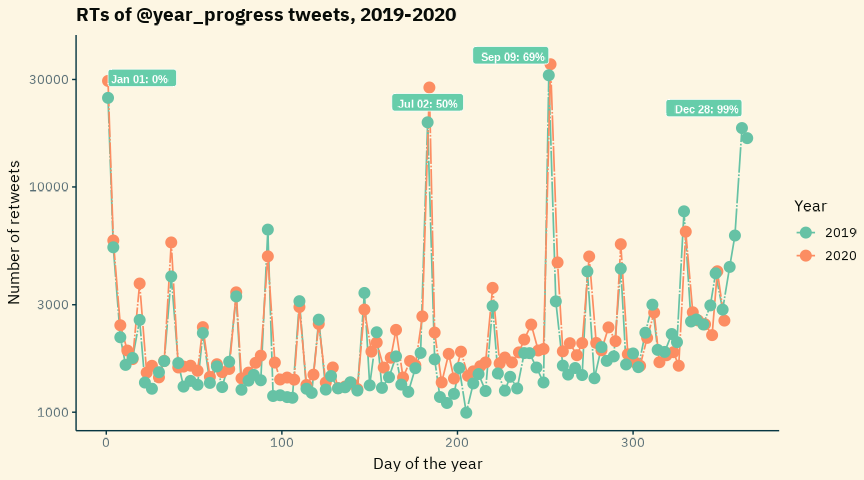
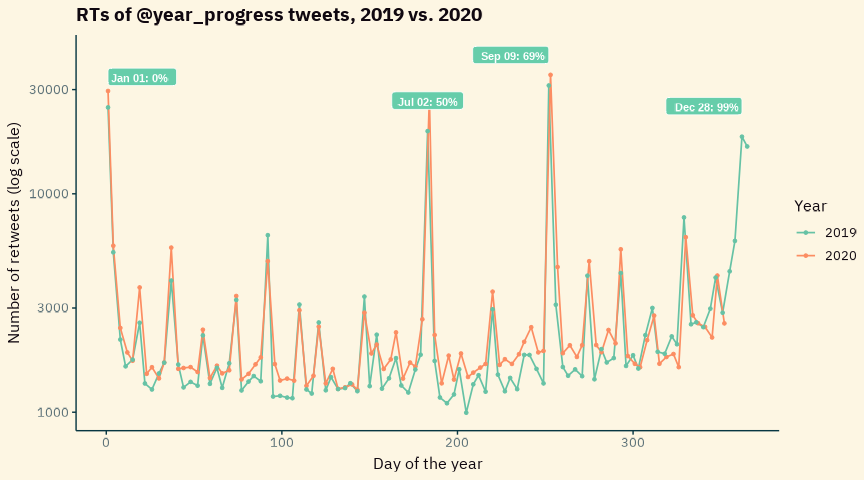
Add likes and quotes analysis

diff --git a/style.css b/style.css
@@ -1,0 +1,34 @@
+body {
+  font-family: "IBM Plex Sans", "Noto Sans", "Cabin", "Calibri", "Arial", sans-serif;
+  color: #080c08;
+}
+
+#flow > * + * {
+  margin-top: 1.5rem;
+}
+
+h1 {
+  border-bottom: 4px solid #66CDAA;
+}
+
+p, li {
+  font-size: 20px;
+}
+
+a, a:active, a:hover {
+  text-decoration: solid 2px underline currentcolor;
+}
+
+code, .sourceCode {
+  font-family: "IBM Plex Mono", "Hasklig", "Inconsolata", "Liberation Mono", "Consolas", monospace;
+  border: 1px dotted #CDC1C5;
+}
+
+.sourceCode > .sourceCode {
+  border: 0
+}
+
+img {
+  border: 2px solid #080c08;
+  margin: 2rem 0;
+}

diff --git a/README.md b/README.md
@@ -1,6 +1,6 @@
 Looking at tweets by @year\_progress 2019-2020
 ================
-December 19, 2020
+December 20, 2020
 
 <!-- README.md is generated from README.Rmd. Please edit that file -->
 <!-- badges: start -->
@@ -104,21 +104,17 @@ visualising.
 ``` r
 dtf2 <- dtf %>% 
   # filter out any "normal" tweets!
-  # filter(!stringr::str_detect(text, "^([:alnum:]|[:punct:])+")) %>% 
   filter(stringr::str_detect(text, "^(\u2591|\u2593)+")) %>% 
   mutate(pcnt = as.numeric(stringr::str_extract(text, "[0-9]+"))) %>% 
   mutate(date_tweeted = case_when(
     # 100% tweets get tweeted just _after_ midnight on 1st Jan: need correcting
-    # be better here to *check* if date == January 1 but OK for now
+    # Be better here to check *if* date == January 1 but OK for now
     pcnt == 100 ~ lubridate::as_date(created_at) - lubridate::period(1, "days"),
     TRUE ~ lubridate::as_date(created_at)
   )) %>% 
   mutate(year = lubridate::year(date_tweeted)) %>% 
   mutate(yday = lubridate::yday(date_tweeted)) %>% 
   mutate(wkdy = weekdays(lubridate::as_date(date_tweeted))) %>% 
-  # NB 2018 is hard-coded here, needs changing if working with different years
-  # filter(!year == 2018) %>% 
-  # select(!c(id, text, created_at)) %>% 
   mutate(across(c(year, wkdy), ~ as.factor(.)))
 ```
 
@@ -131,27 +127,135 @@ dtf2 %>%
   mutate(label = glue::glue("{format(date_tweeted, '%b %d')}: {pcnt}%")) %>% 
   left_join(dtf2, .) %>% 
   ggplot(aes(yday, retweet_count)) +
-  geom_line(aes(colour = year), size = 0.6, alpha = 1, linetype = "f111") +
-  geom_point(aes(fill = year), stroke = NA, shape = 21, size = 1) +
+  geom_line(aes(colour = year), size = 0.6, alpha = 1,) +
+  geom_point(aes(colour = year), size = 1) +
   geom_label(
     aes(label = label),
     vjust = "outward",
     hjust = "inward",
-    nudge_y = 0.05,
+    nudge_y = 0.1,
     fill = "aquamarine3",
     colour = "white",
     size = 3,
     fontface = "bold") +
-  scale_fill_brewer("Year", palette = "Set2") +
   scale_colour_brewer("Year", palette = "Set2") +
   scale_y_log10() +
   labs(
     x = "Day of the year",
-    y = "Number of retweets",
-    title = "RTs of @year_progress tweets, 2019-2020"
+    y = "Number of retweets (log scale)",
+    title = "RTs of @year_progress tweets, 2019 vs. 2020"
   )
 ```
 
 <img src="man/figures/README-plot-retweets-1.png" width="100%" />
+
+Certain tweets are vastly more popular than the rest, with four tweets
+standing out as peaks - even when a log scale is employed on the y axis.
+The next tranche of popularity is reserved for the multiples of 10%,
+apart from 50% which is already one of the top four retweeted.
+
+There doesn’t seem to be a particularly different trend affecting the
+popularity of tweets or the pattern of retweets as 2020 has progressed,
+relative to 2019. 2020 numbers are generally a little higher, which is
+most likely due to the account having acquired more followers over time.
+
+Let’s see if the numbers of likes for each tweet show a similar pattern
+(we’d generally expect them to):
+
+``` r
+dtf3 <- dtf2 %>% 
+  filter(year == 2019) %>% 
+  slice_max(n = 4, order_by = like_count) %>% 
+  mutate(label_2019 = glue::glue(
+    "{format(date_tweeted, '%b %d')}: {pcnt}%")) %>% 
+  left_join(dtf2, .)
+dtf3 %>% 
+  filter(year == 2020) %>% 
+  slice_max(n = 4, order_by = like_count) %>% 
+  mutate(label_2020 = glue::glue(
+    "{format(date_tweeted, '%b %d')}: {pcnt}%")) %>% 
+  left_join(dtf3, .) %>% 
+  mutate(like_count = like_count/1000) %>% 
+  ggplot(aes(yday, like_count)) +
+  geom_line(aes(colour = year), size = 0.6, alpha = 1) +
+  geom_point(aes(colour = year), size = 1) +
+  geom_label(
+    aes(label = label_2019),
+    vjust = "outward",
+    hjust = "inward",
+    nudge_y = 0.1,
+    fill = "chocolate2",
+    # fill = "sienna1",
+    colour = "white",
+    size = 3,
+    fontface = "bold") +
+  geom_label(
+    aes(label = label_2020),
+    vjust = "outward",
+    hjust = "inward",
+    nudge_y = 0.1,
+    fill = "aquamarine3",
+    colour = "white",
+    size = 3,
+    fontface = "bold") +
+  scale_colour_brewer("Year", palette = "Set2", direction = -1) +
+  scale_y_log10() +
+  labs(
+    x = "Day of the year",
+    y = "Number of likes ('000s) (log scale)",
+    title = "\"Likes\" of @year_progress tweets, 2019 vs. 2020"
+  )
+```
+
+<img src="man/figures/README-plot-likes-1.png" width="100%" />
+
+And quote tweets:
+
+``` r
+dtf3 <- dtf2 %>% 
+  filter(year == 2019) %>% 
+  slice_max(n = 4, order_by = quote_count) %>% 
+  mutate(label_2019 = glue::glue(
+    "{format(date_tweeted, '%b %d')}: {pcnt}%")) %>% 
+  left_join(dtf2, .)
+dtf3 %>% 
+  filter(year == 2020) %>% 
+  slice_max(n = 4, order_by = quote_count) %>% 
+  mutate(label_2020 = glue::glue(
+    "{format(date_tweeted, '%b %d')}: {pcnt}%")) %>% 
+  left_join(dtf3, .) %>% 
+  # mutate(quote_count = quote_count/1000) %>% 
+  ggplot(aes(yday, quote_count)) +
+  geom_line(aes(colour = year), size = 0.6, alpha = 1) +
+  geom_point(aes(colour = year), size = 1) +
+  geom_label(
+    aes(label = label_2019),
+    vjust = "outward",
+    hjust = "inward",
+    nudge_y = 0.1,
+    fill = "chocolate2",
+    # fill = "sienna1",
+    colour = "white",
+    size = 3,
+    fontface = "bold") +
+  geom_label(
+    aes(label = label_2020),
+    vjust = "outward",
+    hjust = "inward",
+    nudge_y = 0.1,
+    fill = "aquamarine3",
+    colour = "white",
+    size = 3,
+    fontface = "bold") +
+  scale_colour_brewer("Year", palette = "Set2", direction = -1) +
+  scale_y_log10() +
+  labs(
+    x = "Day of the year",
+    y = "Number of quote-tweets (log scale)",
+    title = "Quotes of @year_progress tweets, 2019 vs. 2020"
+  )
+```
+
+<img src="man/figures/README-plot-quotes-1.png" width="100%" />
 
 </div>
